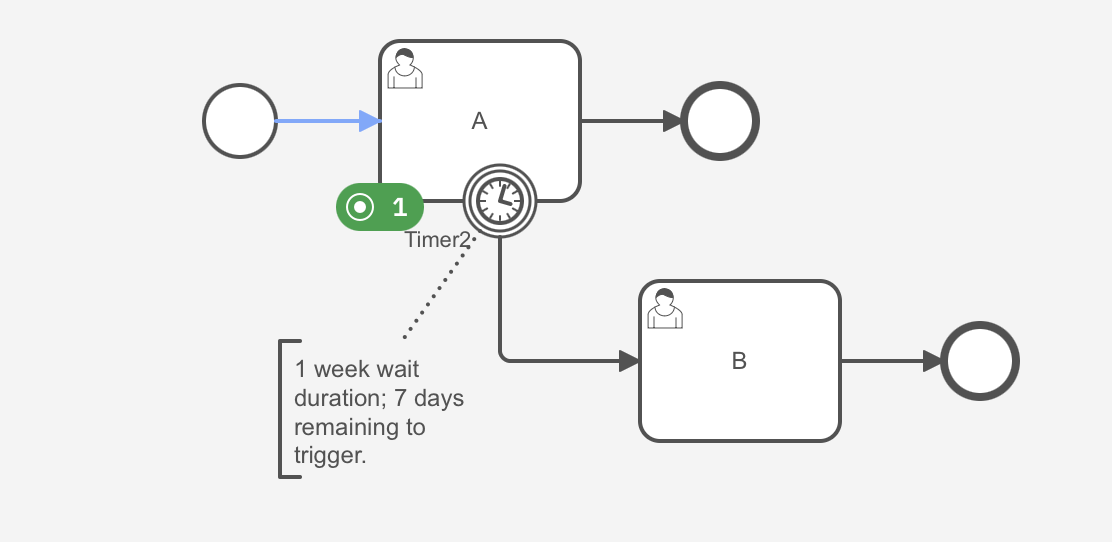
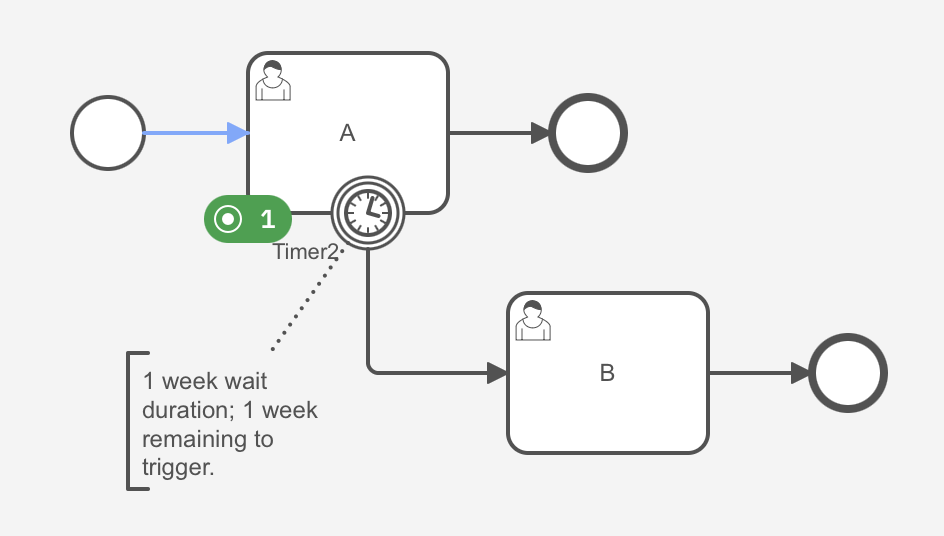
docs: add more visuals for handling catch events

Changed region(s): [[0.0614, 0.0597, 0.9523, 0.9254], [0.6451, 0.6567, 0.6758, 0.6866], [0.6144, 0.6866, 0.6451, 0.7164]]

diff --git a/docs/components/concepts/process-instance-migration.md b/docs/components/concepts/process-instance-migration.md
@@ -180,7 +180,7 @@ An active user task has been waiting for a timer boundary event.
 The timer boundary event is defined as a duration of one week.
 The user task has not been completed and has already spent five days waiting for the timer.
 
-![The process instance is waiting at the active user task A with a timer boundary event attached.](assets/process-instance-migration/migration-catch-event-identical-source.png)
+![The process instance is waiting at the active user task A with a timer boundary event attached.](assets/process-instance-migration/migration-catch-event-source.png)
 
 Now we want to [change an inactive part of the process](#changing-the-process-instance-flow-for-inactive-parts) by adding a user task after the user task with the timer boundary event.
 When migrating the process instance, we want to keep the timer unchanged.
@@ -204,15 +204,26 @@ Let's look at the second scenario:
 An active user task has been waiting for a timer boundary event.
 The timer boundary event is defined as a duration of one week.
 The user task has not been completed and has already spent five days waiting for the timer.
+
+![The process instance is waiting at the active user task A with a timer boundary event attached.](assets/process-instance-migration/migration-catch-event-source.png)
+
 Now we want to [change an inactive part of the process](#changing-the-process-instance-flow-for-inactive-parts) by adding a user task after the user task with the timer boundary event.
 This time, the timer catch event in the target process has a timer duration set to two weeks.
 When migrating the process instance, we still want to keep the timer unchanged.
 Instead of waiting for two weeks, we still only want to wait for the remaining two days.
 To achieve that, you must map the timer boundary event to the timer boundary event in the target process.
 This ensures the timer is migrated (_the associated subscription is migrated_) and the duration is preserved.
+To achieve this for the example above, the mapping between active user tasks A -> A and timer boundary events Timer1 -> Timer2 must be provided.
+After the migration the process instance will look like following:
+
+![The process instance is waiting at the active user task A with the migrated timer boundary event attached.](assets/process-instance-migration/migration-catch-event-different-target.png)
 
 However, if you want to reset the timer and wait for two weeks, you should not map the timer boundary event when migrating the process instance.
 Because, this will cancel the timer (_associated subscription is closed_) and create a new one (_a new subscription is opened_).
+To achieve this for the example above, only a mapping between active user tasks A -> A must be provided.
+After the migration the process instance will look like following:
+
+![The process instance is waiting at the active user task A with a new timer boundary event attached.](assets/process-instance-migration/migration-catch-event-different-target-trigger-updated.png)
 
 ### Add or remove catch events
 
